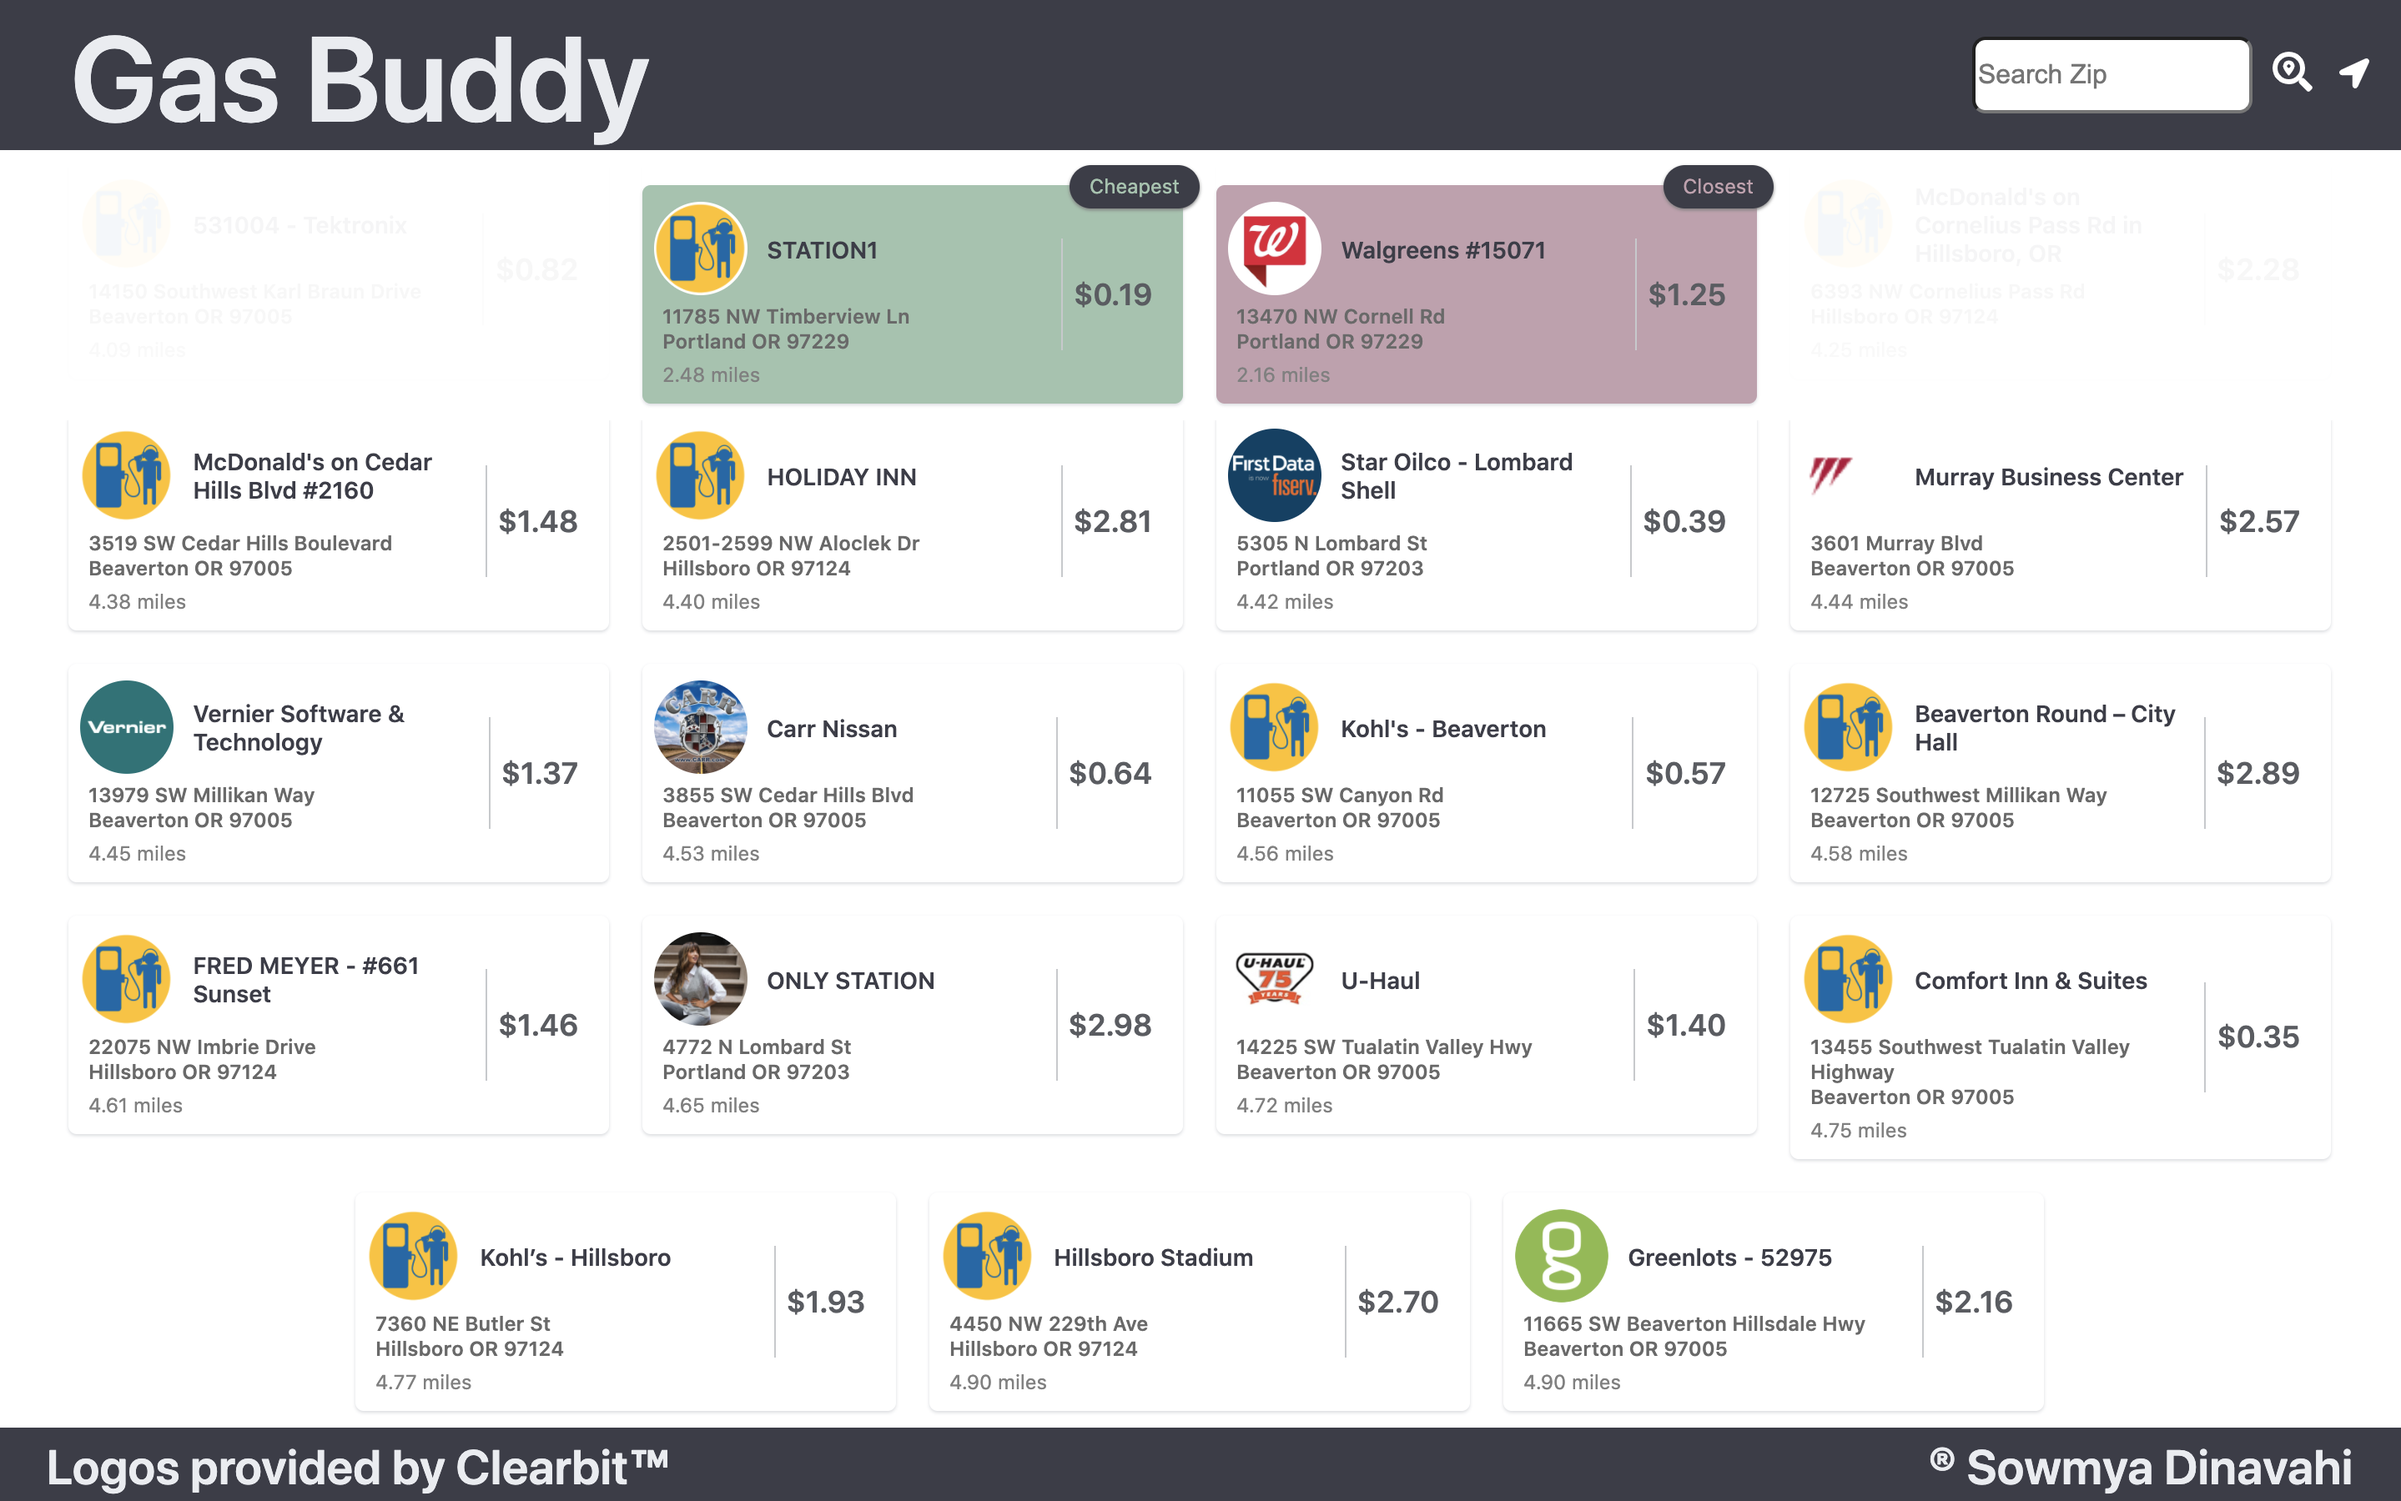
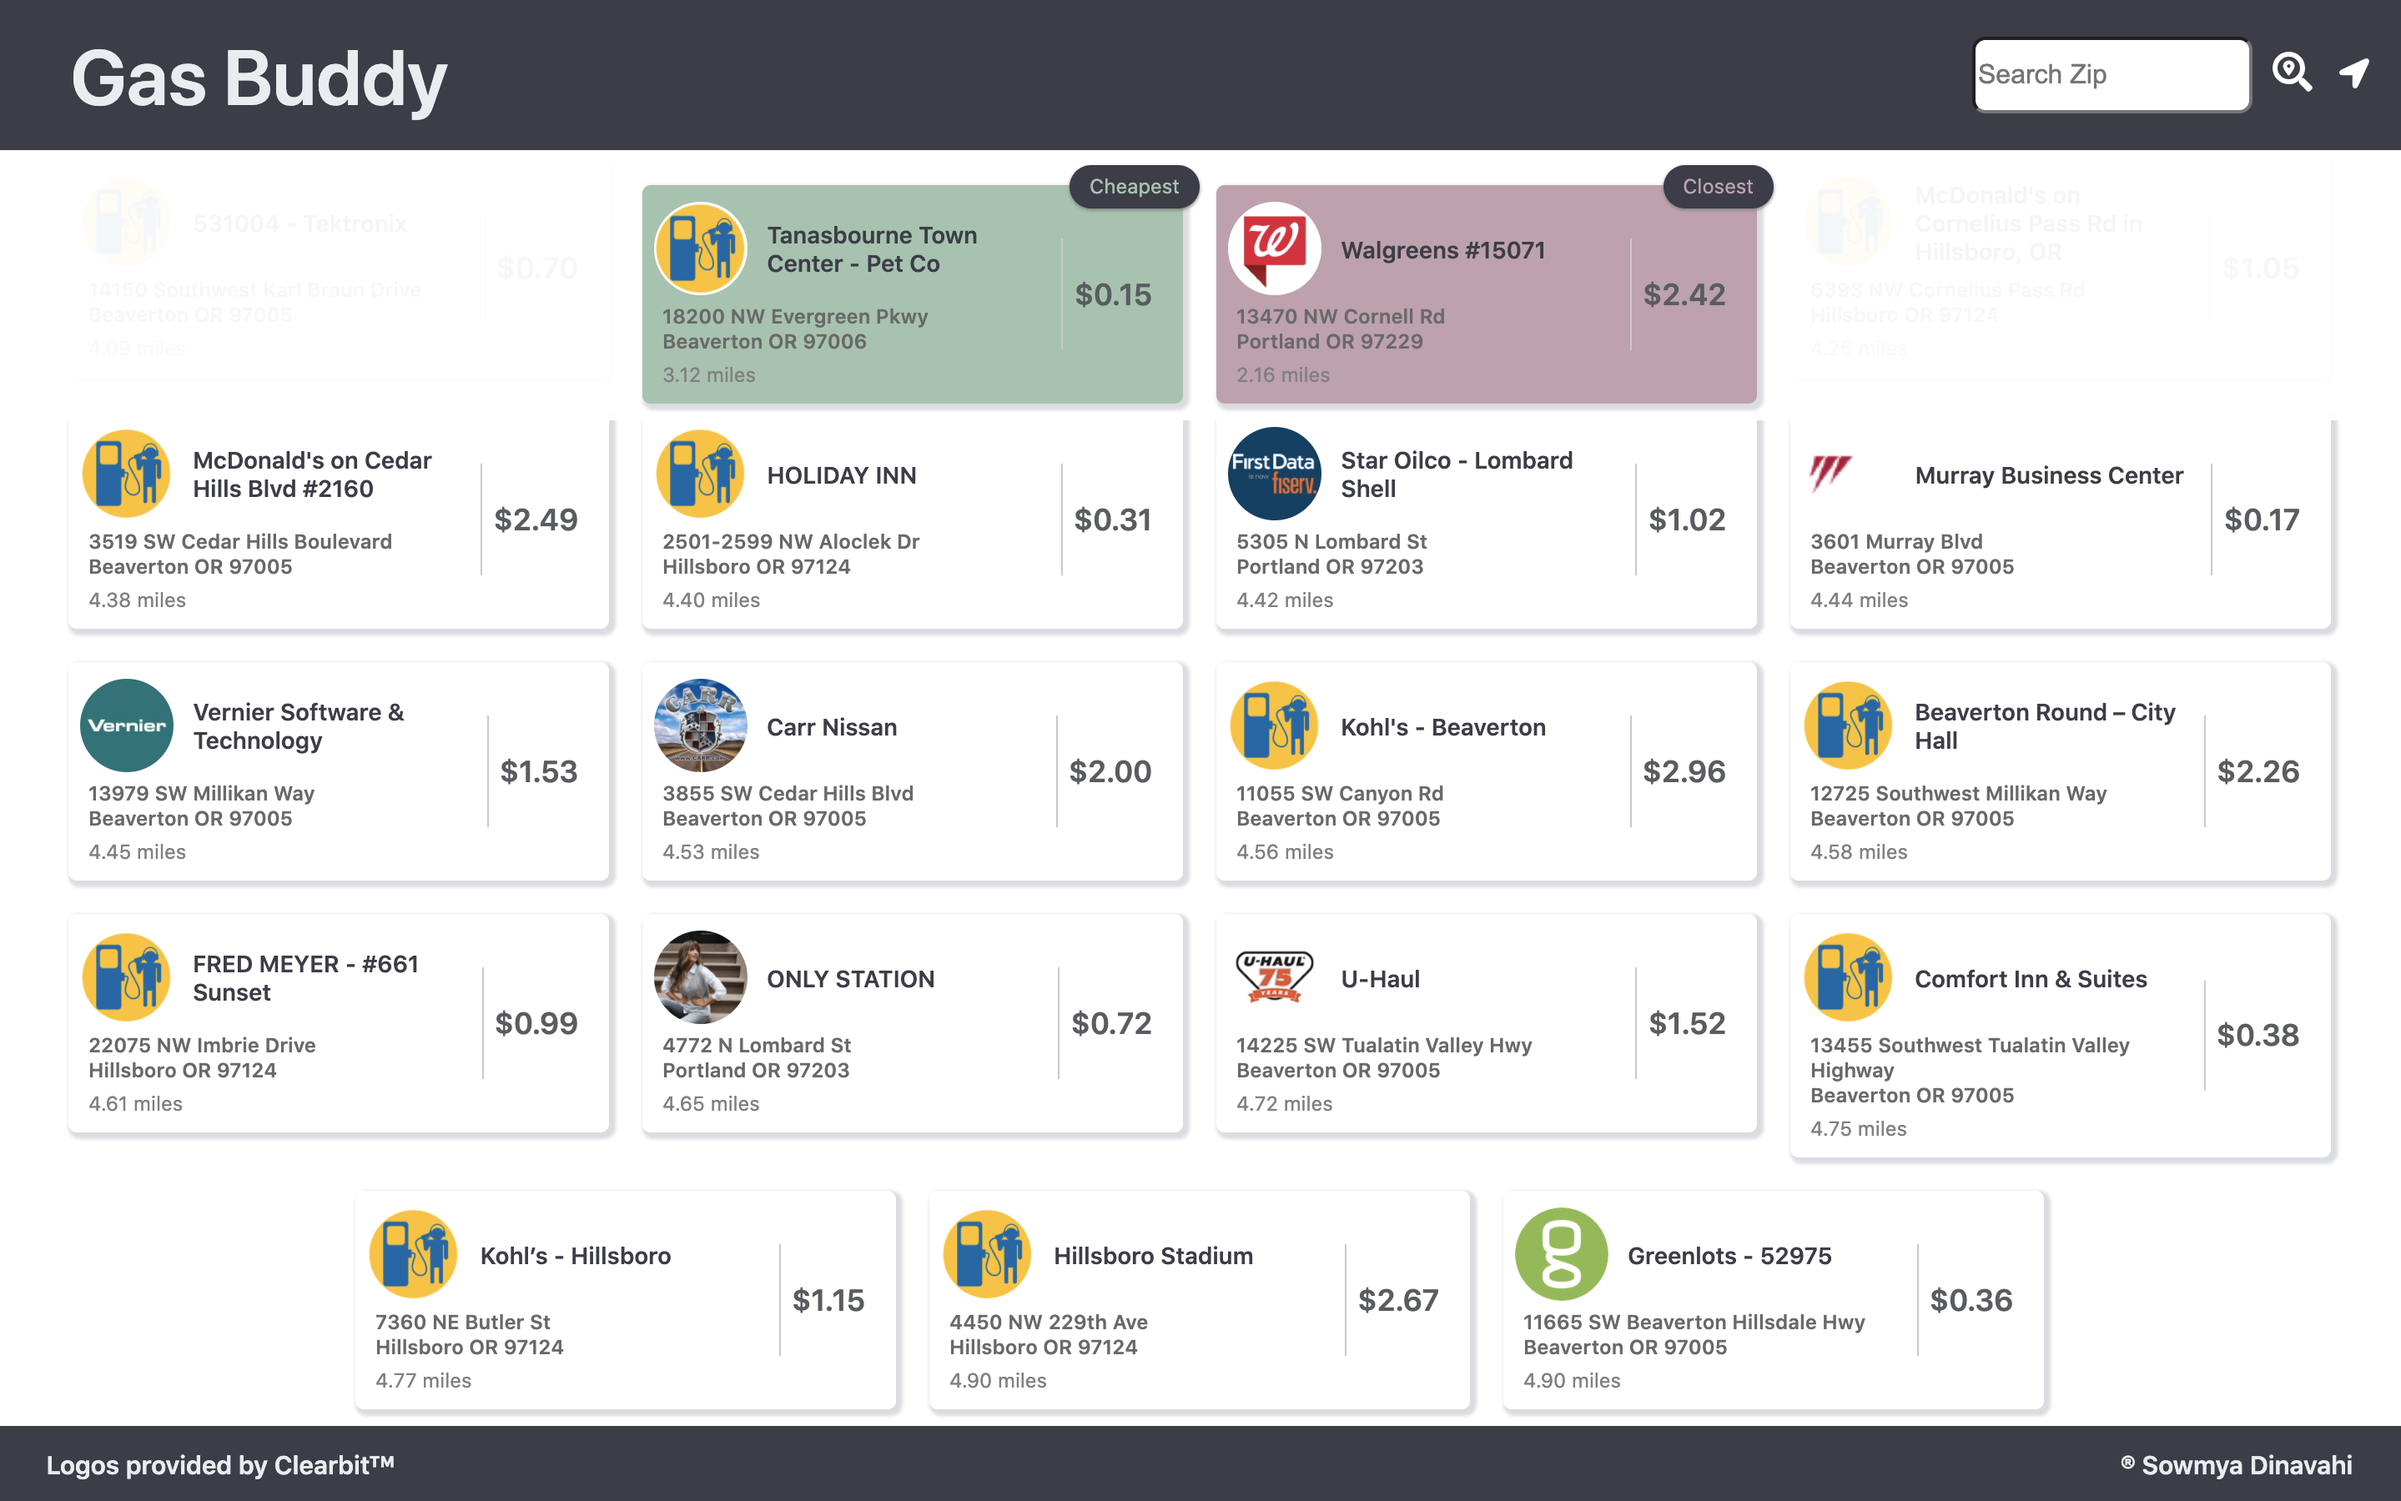
style changes and update screenshots

diff --git a/src/Components/Footer.js b/src/Components/Footer.js
@@ -20,15 +20,15 @@ const AppFooter = styled.div`
 const StyledLink = styled.a`
     text-decoration: none;
     color: #e9ecf1;
-    font-size: 2vw;
+    font-size: calc(0.5em + 0.5vw);
     max-width: 40vw;
-    padding: 1vw;
+    padding: 0 1vw;
 
 `;
 
 const CopyRight = styled.span`
-font-size: 2vw;
-padding: 1vw;
+font-size: calc(0.5em + 0.5vw);
+padding: 0 1vw;
 
 `;
 

diff --git a/src/Components/Card.js b/src/Components/Card.js
@@ -18,7 +18,7 @@ const CardWrapper = styled.div`
   display: flex;
   flex-direction: row;
   background-color: ${(props) => props.type || CARD_TYPES.default};
-  box-shadow: 0 1px 2px #dadce0;
+  box-shadow: 2px 2px 2px 2px #dadce0;
   transition: box-shadow 0.3s ease-in-out;
   border-radius: 5px;
   justify-content: space-between;

diff --git a/src/Components/AppHeader.js b/src/Components/AppHeader.js
@@ -26,7 +26,7 @@ const Header = styled.div`
   width: 100%;
 `;
 const HeaderTitle = styled.div`
-  font-size: 5vw;
+  font-size: calc(2em + 1vw);
   text-align: center;
   padding-left: 3%;
   min-width: 15vw;
